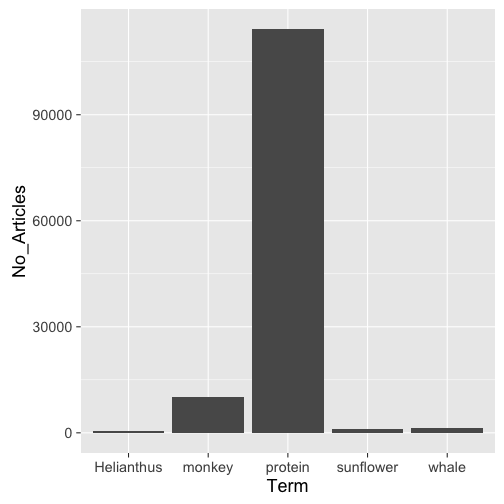
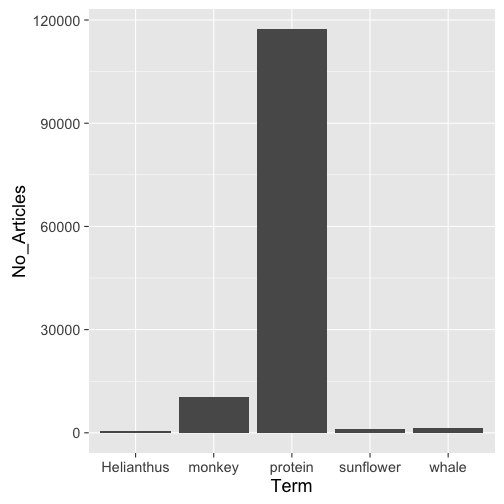
use canonical urls for cran in readme

diff --git a/README.md b/README.md
@@ -7,11 +7,11 @@ rplos
 [![Build status](https://ci.appveyor.com/api/projects/status/m5lek0xawvgi5bwc/branch/master)](https://ci.appveyor.com/project/sckott/rplos/branch/master)
 [![codecov.io](https://codecov.io/github/ropensci/rplos/coverage.svg?branch=master)](https://codecov.io/github/ropensci/rplos?branch=master)
 [![rstudio mirror downloads](http://cranlogs.r-pkg.org/badges/rplos)](https://github.com/metacran/cranlogs.app)
-[![cran version](http://www.r-pkg.org/badges/version/rplos)](http://cran.rstudio.com/web/packages/rplos)
+[![cran version](http://www.r-pkg.org/badges/version/rplos)](https://cran.r-project.org/package=rplos)
 
 ## Install
 
-You can get this package at CRAN [here](http://cran.rstudio.com/package=rplos), or install it within R by doing
+You can get this package at CRAN [here](https://cran.r-project.org/package=rplos), or install it within R by doing
 
 
 ```r
@@ -43,7 +43,7 @@ rplos tutorial at rOpenSci website [here](http://ropensci.org/tutorials/rplos_tu
 
 PLoS API documentation [here](http://api.plos.org/)
 
-Crossref API documentation [here](https://github.com/CrossRef/rest-api-doc/blob/master/rest_api.md), [here](http://crosstech.crossref.org/2014/04/%E2%99%AB-researchers-just-wanna-have-funds-%E2%99%AB.html), and [here](http://help.crossref.org/#home). Note that we are working on a new package [rcrossref](https://github.com/ropensci/rcrossref) ([on CRAN](http://cran.rstudio.com/package=rcrossref)) with a much fuller implementation of R functions for all Crossref endpoints.
+Crossref API documentation [here](https://github.com/CrossRef/rest-api-doc/blob/master/rest_api.md), [here](http://crosstech.crossref.org/2014/04/%E2%99%AB-researchers-just-wanna-have-funds-%E2%99%AB.html), and [here](http://help.crossref.org/#home). Note that we are working on a new package [rcrossref](https://github.com/ropensci/rcrossref) ([on CRAN](https://cran.r-project.org/package=rcrossref)) with a much fuller implementation of R functions for all Crossref endpoints.
 
 ## Quick start
 
@@ -56,7 +56,7 @@ Search for the term ecology, and return id (DOI) and publication date, limiting 
 searchplos('ecology', 'id,publication_date', limit = 5)
 #> $meta
 #>   numFound start maxScore
-#> 1    32563     0       NA
+#> 1    33699     0       NA
 #> 
 #> $data
 #>                                                        id
@@ -64,13 +64,13 @@ searchplos('ecology', 'id,publication_date', limit = 5)
 #> 2                            10.1371/journal.pone.0001248
 #> 3 10.1371/annotation/69333ae7-757a-4651-831c-f28c5eb02120
 #> 4                            10.1371/journal.pone.0080763
-#> 5                            10.1371/journal.pone.0102437
+#> 5                            10.1371/journal.pone.0155019
 #>       publication_date
 #> 1 2013-04-24T00:00:00Z
 #> 2 2007-11-28T00:00:00Z
 #> 3 2013-10-29T00:00:00Z
 #> 4 2013-12-10T00:00:00Z
-#> 5 2014-07-22T00:00:00Z
+#> 5 2016-05-11T00:00:00Z
 ```
 
 Get DOIs for full article in PLoS One
@@ -81,15 +81,15 @@ searchplos(q="*:*", fl='id', fq=list('cross_published_journal_key:PLoSONE',
    'doc_type:full'), limit=5)
 #> $meta
 #>   numFound start maxScore
-#> 1   156005     0       NA
+#> 1   161020     0       NA
 #> 
 #> $data
 #>                             id
-#> 1 10.1371/journal.pone.0084520
-#> 2 10.1371/journal.pone.0027194
-#> 3 10.1371/journal.pone.0073075
-#> 4 10.1371/journal.pone.0050158
-#> 5 10.1371/journal.pone.0050268
+#> 1 10.1371/journal.pone.0024229
+#> 2 10.1371/journal.pone.0024016
+#> 3 10.1371/journal.pone.0094828
+#> 4 10.1371/journal.pone.0095065
+#> 5 10.1371/journal.pone.0130784
 ```
 
 Query to get some PLOS article-level metrics, notice difference between two outputs
@@ -101,20 +101,27 @@ out_sorted <- searchplos(q="*:*", fl=c('id','counter_total_all','alm_twitterCoun
    fq='doc_type:full', sort='counter_total_all desc')
 head(out$data)
 #>                             id alm_twitterCount counter_total_all
-#> 1 10.1371/journal.pone.0084520                0              1088
-#> 2 10.1371/journal.pone.0027194                1              1966
-#> 3 10.1371/journal.pone.0073075                0              2118
-#> 4 10.1371/journal.pone.0050158                0              1709
-#> 5 10.1371/journal.pone.0050268                4              1642
-#> 6 10.1371/journal.pone.0084489                0              1223
+#> 1 10.1371/journal.pone.0024229                0              1762
+#> 2 10.1371/journal.pgen.1004259                0               686
+#> 3 10.1371/journal.pone.0024016                0              1774
+#> 4 10.1371/journal.pgen.1004316                0              1597
+#> 5 10.1371/journal.pone.0094828                0              1024
+#> 6 10.1371/journal.pgen.1004352                1              1647
 head(out_sorted$data)
-#>                             id alm_twitterCount counter_total_all
-#> 1 10.1371/journal.pmed.0020124             2314           1602293
-#> 2 10.1371/journal.pmed.0050045              151            382347
-#> 3 10.1371/journal.pone.0069841              857            378155
-#> 4 10.1371/journal.pcbi.0030102               52            377892
-#> 5 10.1371/journal.pone.0007595              242            365498
-#> 6 10.1371/journal.pcbi.0030077               53            317609
+#>                                                        id alm_twitterCount
+#> 1                            10.1371/journal.pmed.0020124             2480
+#> 2 10.1371/annotation/80bd7285-9d2d-403a-8e6f-9c375bf977ca                0
+#> 3                            10.1371/journal.pcbi.0030102               53
+#> 4                            10.1371/journal.pcbi.1003149              145
+#> 5                            10.1371/journal.pmed.0050045              153
+#> 6                            10.1371/journal.pone.0069841              860
+#>   counter_total_all
+#> 1           1707520
+#> 2            546738
+#> 3            448864
+#> 4            409507
+#> 5            391646
+#> 6            389823
 ```
 
 A list of articles about social networks that are popular on a social network
@@ -126,20 +133,20 @@ searchplos(q="*:*",fl=c('id','alm_twitterCount'),
    sort='counter_total_month desc')
 #> $meta
 #>   numFound start maxScore
-#> 1       38     0       NA
+#> 1       43     0       NA
 #> 
 #> $data
 #>                              id alm_twitterCount
-#> 1  10.1371/journal.pmed.1000316              899
-#> 2  10.1371/journal.pbio.1002413              246
-#> 3  10.1371/journal.pone.0069841              857
-#> 4  10.1371/journal.pone.0073791             1642
-#> 5  10.1371/journal.pone.0151387              197
-#> 6  10.1371/journal.pone.0148405              447
-#> 7  10.1371/journal.pbio.1001535             1763
-#> 8  10.1371/journal.pbio.1002373              342
-#> 9  10.1371/journal.pone.0150989              183
-#> 10 10.1371/journal.pone.0149777              113
+#> 1  10.1371/journal.pone.0155885              118
+#> 2  10.1371/journal.pmed.1000316              923
+#> 3  10.1371/journal.pone.0151588              153
+#> 4  10.1371/journal.pone.0069841              860
+#> 5  10.1371/journal.pone.0149885              123
+#> 6  10.1371/journal.pone.0073791             1667
+#> 7  10.1371/journal.pcbi.1003789             1528
+#> 8  10.1371/journal.pbio.1001535             1798
+#> 9  10.1371/journal.pone.0148405              469
+#> 10 10.1371/journal.pone.0156409              121
 ```
 
 Show all articles that have these two words less then about 15 words apart
@@ -149,7 +156,7 @@ Show all articles that have these two words less then about 15 words apart
 searchplos(q='everything:"sports alcohol"~15', fl='title', fq='doc_type:full', limit=3)
 #> $meta
 #>   numFound start maxScore
-#> 1       95     0       NA
+#> 1      100     0       NA
 #> 
 #> $data
 #>                                                                                                                                                       title
@@ -165,7 +172,7 @@ Narrow results to 7 words apart, changing the ~15 to ~7
 searchplos(q='everything:"sports alcohol"~7', fl='title', fq='doc_type:full', limit=3)
 #> $meta
 #>   numFound start maxScore
-#> 1       47     0       NA
+#> 1       51     0       NA
 #> 
 #> $data
 #>                                                                                                                                                       title
@@ -182,15 +189,15 @@ searchplos(q='*:*', fl=c('id','article_type'),
    fq=list('-article_type:correction','-article_type:viewpoints'), limit=5)
 #> $meta
 #>   numFound start maxScore
-#> 1  1516083     0       NA
+#> 1  1565546     0       NA
 #> 
 #> $data
-#>                                        id     article_type
-#> 1            10.1371/journal.pone.0084520 Research Article
-#> 2      10.1371/journal.pone.0084520/title Research Article
-#> 3   10.1371/journal.pone.0084520/abstract Research Article
-#> 4 10.1371/journal.pone.0084520/references Research Article
-#> 5       10.1371/journal.pone.0084520/body Research Article
+#>                                          id     article_type
+#> 1        10.1371/journal.pone.0024229/title Research Article
+#> 2     10.1371/journal.pone.0024229/abstract Research Article
+#> 3   10.1371/journal.pone.0024229/references Research Article
+#> 4         10.1371/journal.pone.0024229/body Research Article
+#> 5 10.1371/journal.pone.0024229/introduction Research Article
 ```
 
 ### Faceted search
@@ -206,19 +213,19 @@ facetplos(q='alcohol', facet.field=c('journal','subject'), facet.limit=5)
 #> $facet_fields
 #> $facet_fields$journal
 #>                                 X1      X2
-#> 1                         plos one 1275921
-#> 2                    plos genetics   50342
-#> 3                   plos pathogens   43597
-#> 4       plos computational biology   37219
-#> 5 plos neglected tropical diseases   35331
+#> 1                         plos one 1319779
+#> 2                    plos genetics   51827
+#> 3                   plos pathogens   45119
+#> 4       plos computational biology   38599
+#> 5 plos neglected tropical diseases   37114
 #> 
 #> $facet_fields$subject
 #>                              X1      X2
-#> 1     biology and life sciences 1459514
-#> 2  medicine and health sciences 1131931
-#> 3 research and analysis methods  963634
-#> 4                  biochemistry  719264
-#> 5                  cell biology  615901
+#> 1     biology and life sciences 1505447
+#> 2  medicine and health sciences 1167857
+#> 3 research and analysis methods  999924
+#> 4                  biochemistry  736199
+#> 5                  cell biology  629720
 #> 
 #> 
 #> $facet_dates
@@ -246,16 +253,16 @@ facetplos(q='*:*', url=url, facet.range='counter_total_all',
 #> $facet_ranges
 #> $facet_ranges$counter_total_all
 #>    X1   X2
-#> 1   5  318
-#> 2  15  842
-#> 3  25 1590
-#> 4  35 2022
-#> 5  45 2202
-#> 6  55 2068
-#> 7  65 1791
-#> 8  75 1433
-#> 9  85 1465
-#> 10 95 1225
+#> 1   5  395
+#> 2  15  826
+#> 3  25 1106
+#> 4  35 1686
+#> 5  45 2134
+#> 6  55 1979
+#> 7  65 1845
+#> 8  75 1784
+#> 9  85 1441
+#> 10 95 1279
 ```
 
 ### Highlight searches
@@ -337,20 +344,20 @@ For example:
 plossubject(q='marine ecology',  fl = c('id','journal'), limit = 10)
 #> $meta
 #>   numFound start maxScore
-#> 1     2902     0       NA
+#> 1     3050     0       NA
 #> 
 #> $data
-#>                                                     id  journal
-#> 1                10.1371/journal.pone.0080365/abstract PLoS ONE
-#> 2              10.1371/journal.pone.0080365/references PLoS ONE
-#> 3                    10.1371/journal.pone.0080365/body PLoS ONE
-#> 4                    10.1371/journal.pone.0092590/body PLoS ONE
-#> 5            10.1371/journal.pone.0092590/introduction PLoS ONE
-#> 6  10.1371/journal.pone.0092590/results_and_discussion PLoS ONE
-#> 7   10.1371/journal.pone.0092590/materials_and_methods PLoS ONE
-#> 8             10.1371/journal.pone.0092590/conclusions PLoS ONE
-#> 9                         10.1371/journal.pone.0092590 PLoS ONE
-#> 10                  10.1371/journal.pone.0092590/title PLoS ONE
+#>                                                    id  journal
+#> 1                        10.1371/journal.pone.0021810 PLoS ONE
+#> 2                  10.1371/journal.pone.0021810/title PLoS ONE
+#> 3               10.1371/journal.pone.0021810/abstract PLoS ONE
+#> 4             10.1371/journal.pone.0021810/references PLoS ONE
+#> 5                   10.1371/journal.pone.0021810/body PLoS ONE
+#> 6           10.1371/journal.pone.0021810/introduction PLoS ONE
+#> 7  10.1371/journal.pone.0021810/materials_and_methods PLoS ONE
+#> 8                        10.1371/journal.pone.0092590 PLoS ONE
+#> 9           10.1371/journal.pone.0092590/introduction PLoS ONE
+#> 10                 10.1371/journal.pone.0092590/title PLoS ONE
 ```
 
 However, you can always just do this in `searchplos()` like `searchplos(q = "subject:science")`. See also the `fq` parameter. The above convenience functions are simply wrappers around `searchplos`, so take all the same parameters.
@@ -363,11 +370,11 @@ Search with term _marine ecology_, by field _subject_, and limit to 5 results
 ```r
 plosviews(search='marine ecology', byfield='subject', limit=5)
 #>                             id counter_total_all
-#> 2 10.1371/journal.pone.0080365              1954
-#> 3 10.1371/journal.pone.0021810              2229
-#> 4 10.1371/journal.pone.0149852              3368
-#> 1 10.1371/journal.pone.0092590              6526
-#> 5 10.1371/journal.pone.0047598              8610
+#> 3 10.1371/journal.pone.0080365              2003
+#> 1 10.1371/journal.pone.0021810              2327
+#> 5 10.1371/journal.pone.0149852              4162
+#> 4 10.1371/journal.pone.0031775              4805
+#> 2 10.1371/journal.pone.0092590              7183
 ```
 
 ### Visualize
@@ -379,11 +386,11 @@ Visualize word use across articles
 plosword(list('monkey','Helianthus','sunflower','protein','whale'), vis = 'TRUE')
 #> $table
 #>   No_Articles       Term
-#> 1       10237     monkey
-#> 2         419 Helianthus
-#> 3        1133  sunflower
-#> 4      114217    protein
-#> 5        1325      whale
+#> 1       10480     monkey
+#> 2         428 Helianthus
+#> 3        1171  sunflower
+#> 4      117345    protein
+#> 5        1370      whale
 #> 
 #> $plot
 ```
